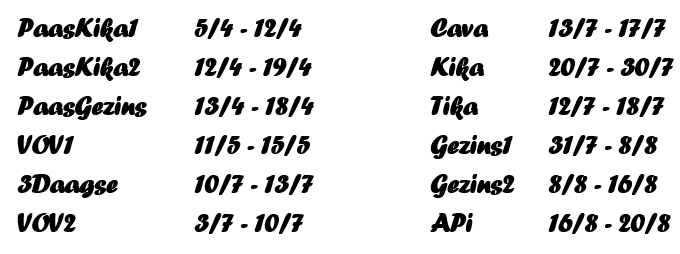
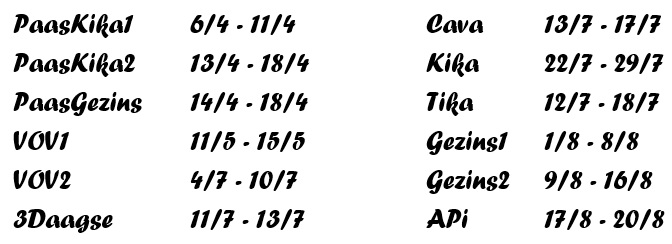
update holiday dates (figure)

diff --git a/src/main/webapp/index.htm b/src/main/webapp/index.htm
@@ -64,7 +64,7 @@
 	
 			<i class="fa fa-calendar"></i>
 			<h1>Onze vakanties voor 2020</h1>
-			<img src="digitaal/resources/images/holidays-2020.jpg"/>
+			<img src="digitaal/resources/images/holidays-2020.jpg?x=y"/>
 			<br/>
 		</div>
 		
